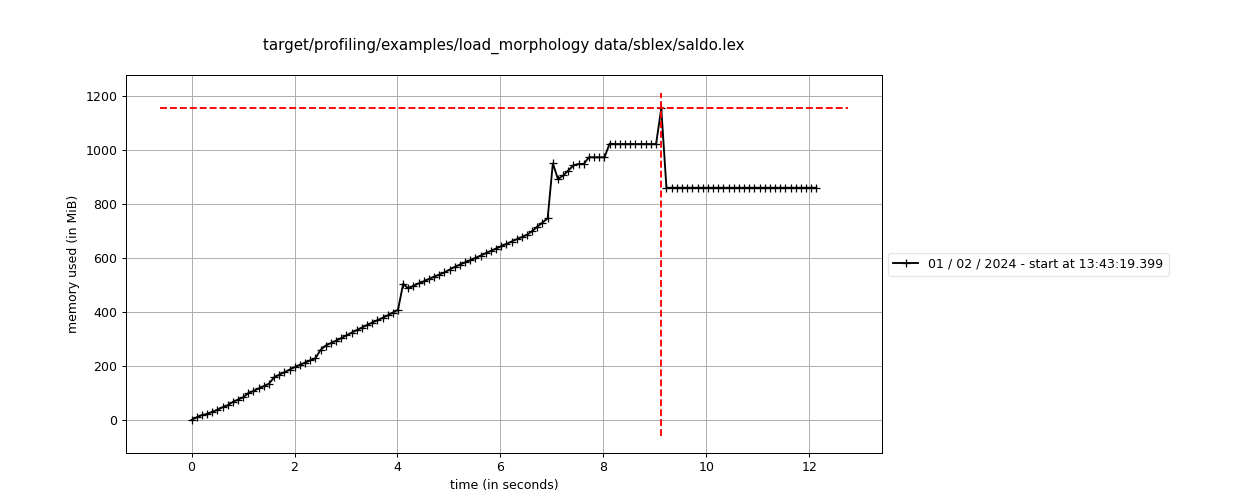
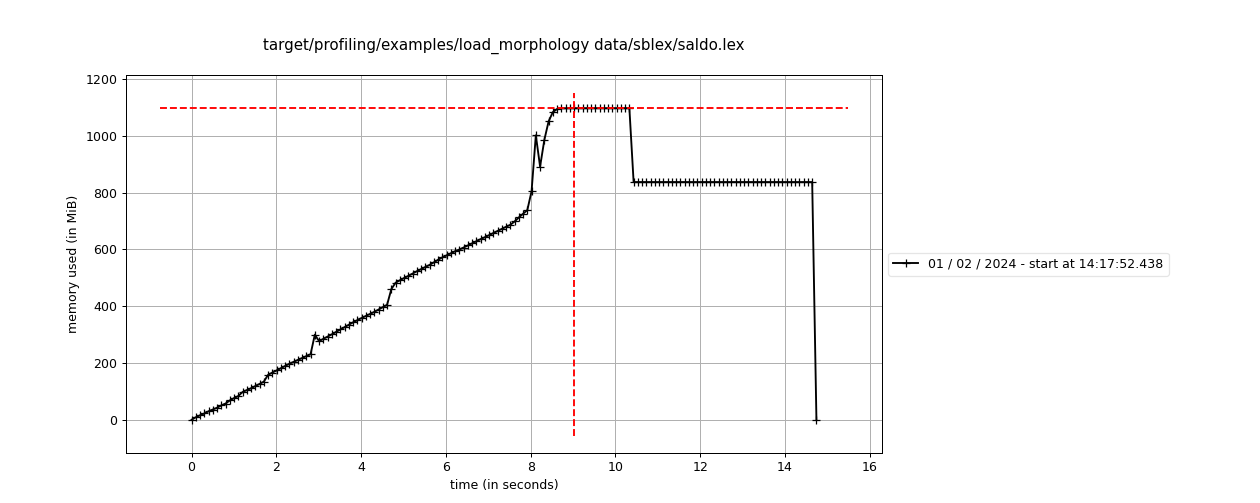
docs: update profiling

diff --git a/README.md b/README.md
@@ -7,6 +7,8 @@ Morphology is the beast in the room that uses a lot of memory.
 Python reference:
 ![Diagram showing memory usage of Python version](assets/images/python_baseline_memory_usage.png)
 
+*NOTE* All rust examples also serializes the trie to json.
+
 Baseline:
 
 ![Diagram showing memory usage of load_morphology](assets/images/rust_baseline_memory_usage.png)
@@ -22,5 +24,7 @@ And if also use `ArcStr` as keys in the inner map we can reduce it some more:
 ![Diagram showing memory usage of load_morphology](assets/images/rust_use_arcstr_as_key_memory_usage.png)
 
 ### Decomposing builder
+
+The builder already holds the number of states and all states, lets grab them (and reuse the memory).
 
 ![Diagram showing memory usage of load_morphology](assets/images/rust_decompose_builder_memory_usage.png)
